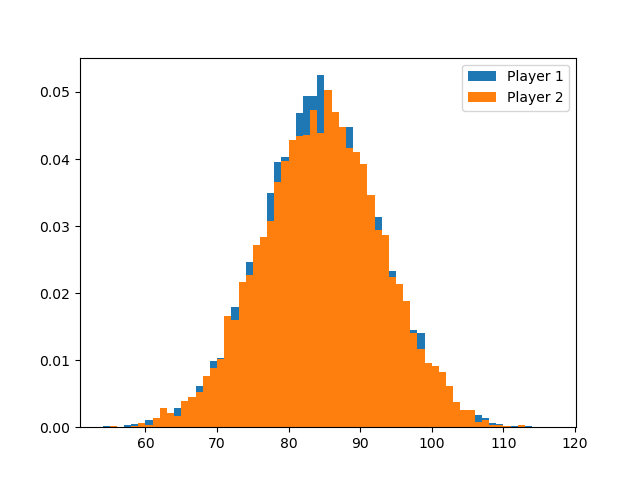
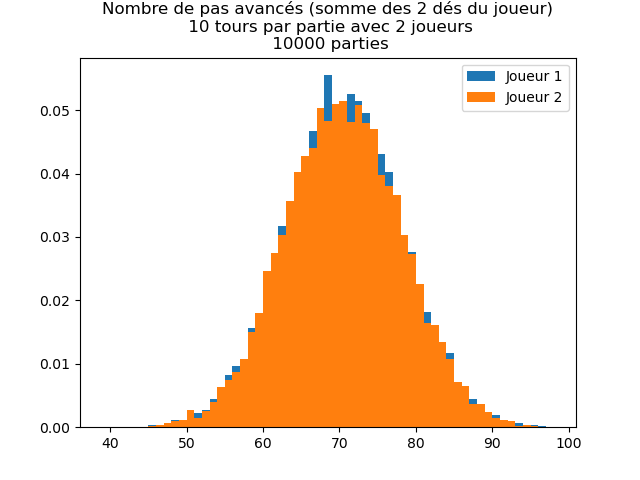
added plots

diff --git a/pachisi.py b/pachisi.py
@@ -1,9 +1,11 @@
 import numpy as np
 import matplotlib.pyplot as plt
 
+
+num_turn_per_game = 10
 def play_one_game():
     player1, player2 = 0, 0
-    for i in range(12): # Each player rolls the dice 12 times (moving all their pieces)
+    for i in range(num_turn_per_game): # Each player rolls the dice 10 times (moving all their pieces)
         p1_roll = np.random.randint(1, 7) + np.random.randint(1, 7)
         p2_roll = np.random.randint(1, 7) + np.random.randint(1, 7)
         player1 += p1_roll
@@ -27,11 +29,16 @@ mean_player1, stddev_player1 = np.mean(player1_rolls), np.std(player1_rolls)
 mean_player2, stddev_player2 = np.mean(player2_rolls), np.std(player2_rolls)
 
 # Plot the histogram of player rolls
-plt.hist(player1_rolls, bins=np.arange(min(player1_rolls), max(player1_rolls)+1), density=True, label='Player 1')
-plt.hist(player2_rolls, bins=np.arange(min(player2_rolls), max(player2_rolls)+1), density=True, label='Player 2')
+plt.hist(player1_rolls, bins=np.arange(min(player1_rolls), max(player1_rolls)+1), density=True, label='Joueur 1')
+plt.hist(player2_rolls, bins=np.arange(min(player2_rolls), max(player2_rolls)+1), density=True, label='Joueur 2')
 
 # Add a legend to the plot
 plt.legend()
+
+# Add the number of games played to the title
+plt.title(f"""Nombre de pas avancés (somme des 2 dés du joueur)
+ {num_turn_per_game} tours par partie avec 2 joueurs
+ {num_games} parties""")
 
 # Show the plot
 plt.savefig(f"plot_diceroll_distribution_{num_games}_games.png")
